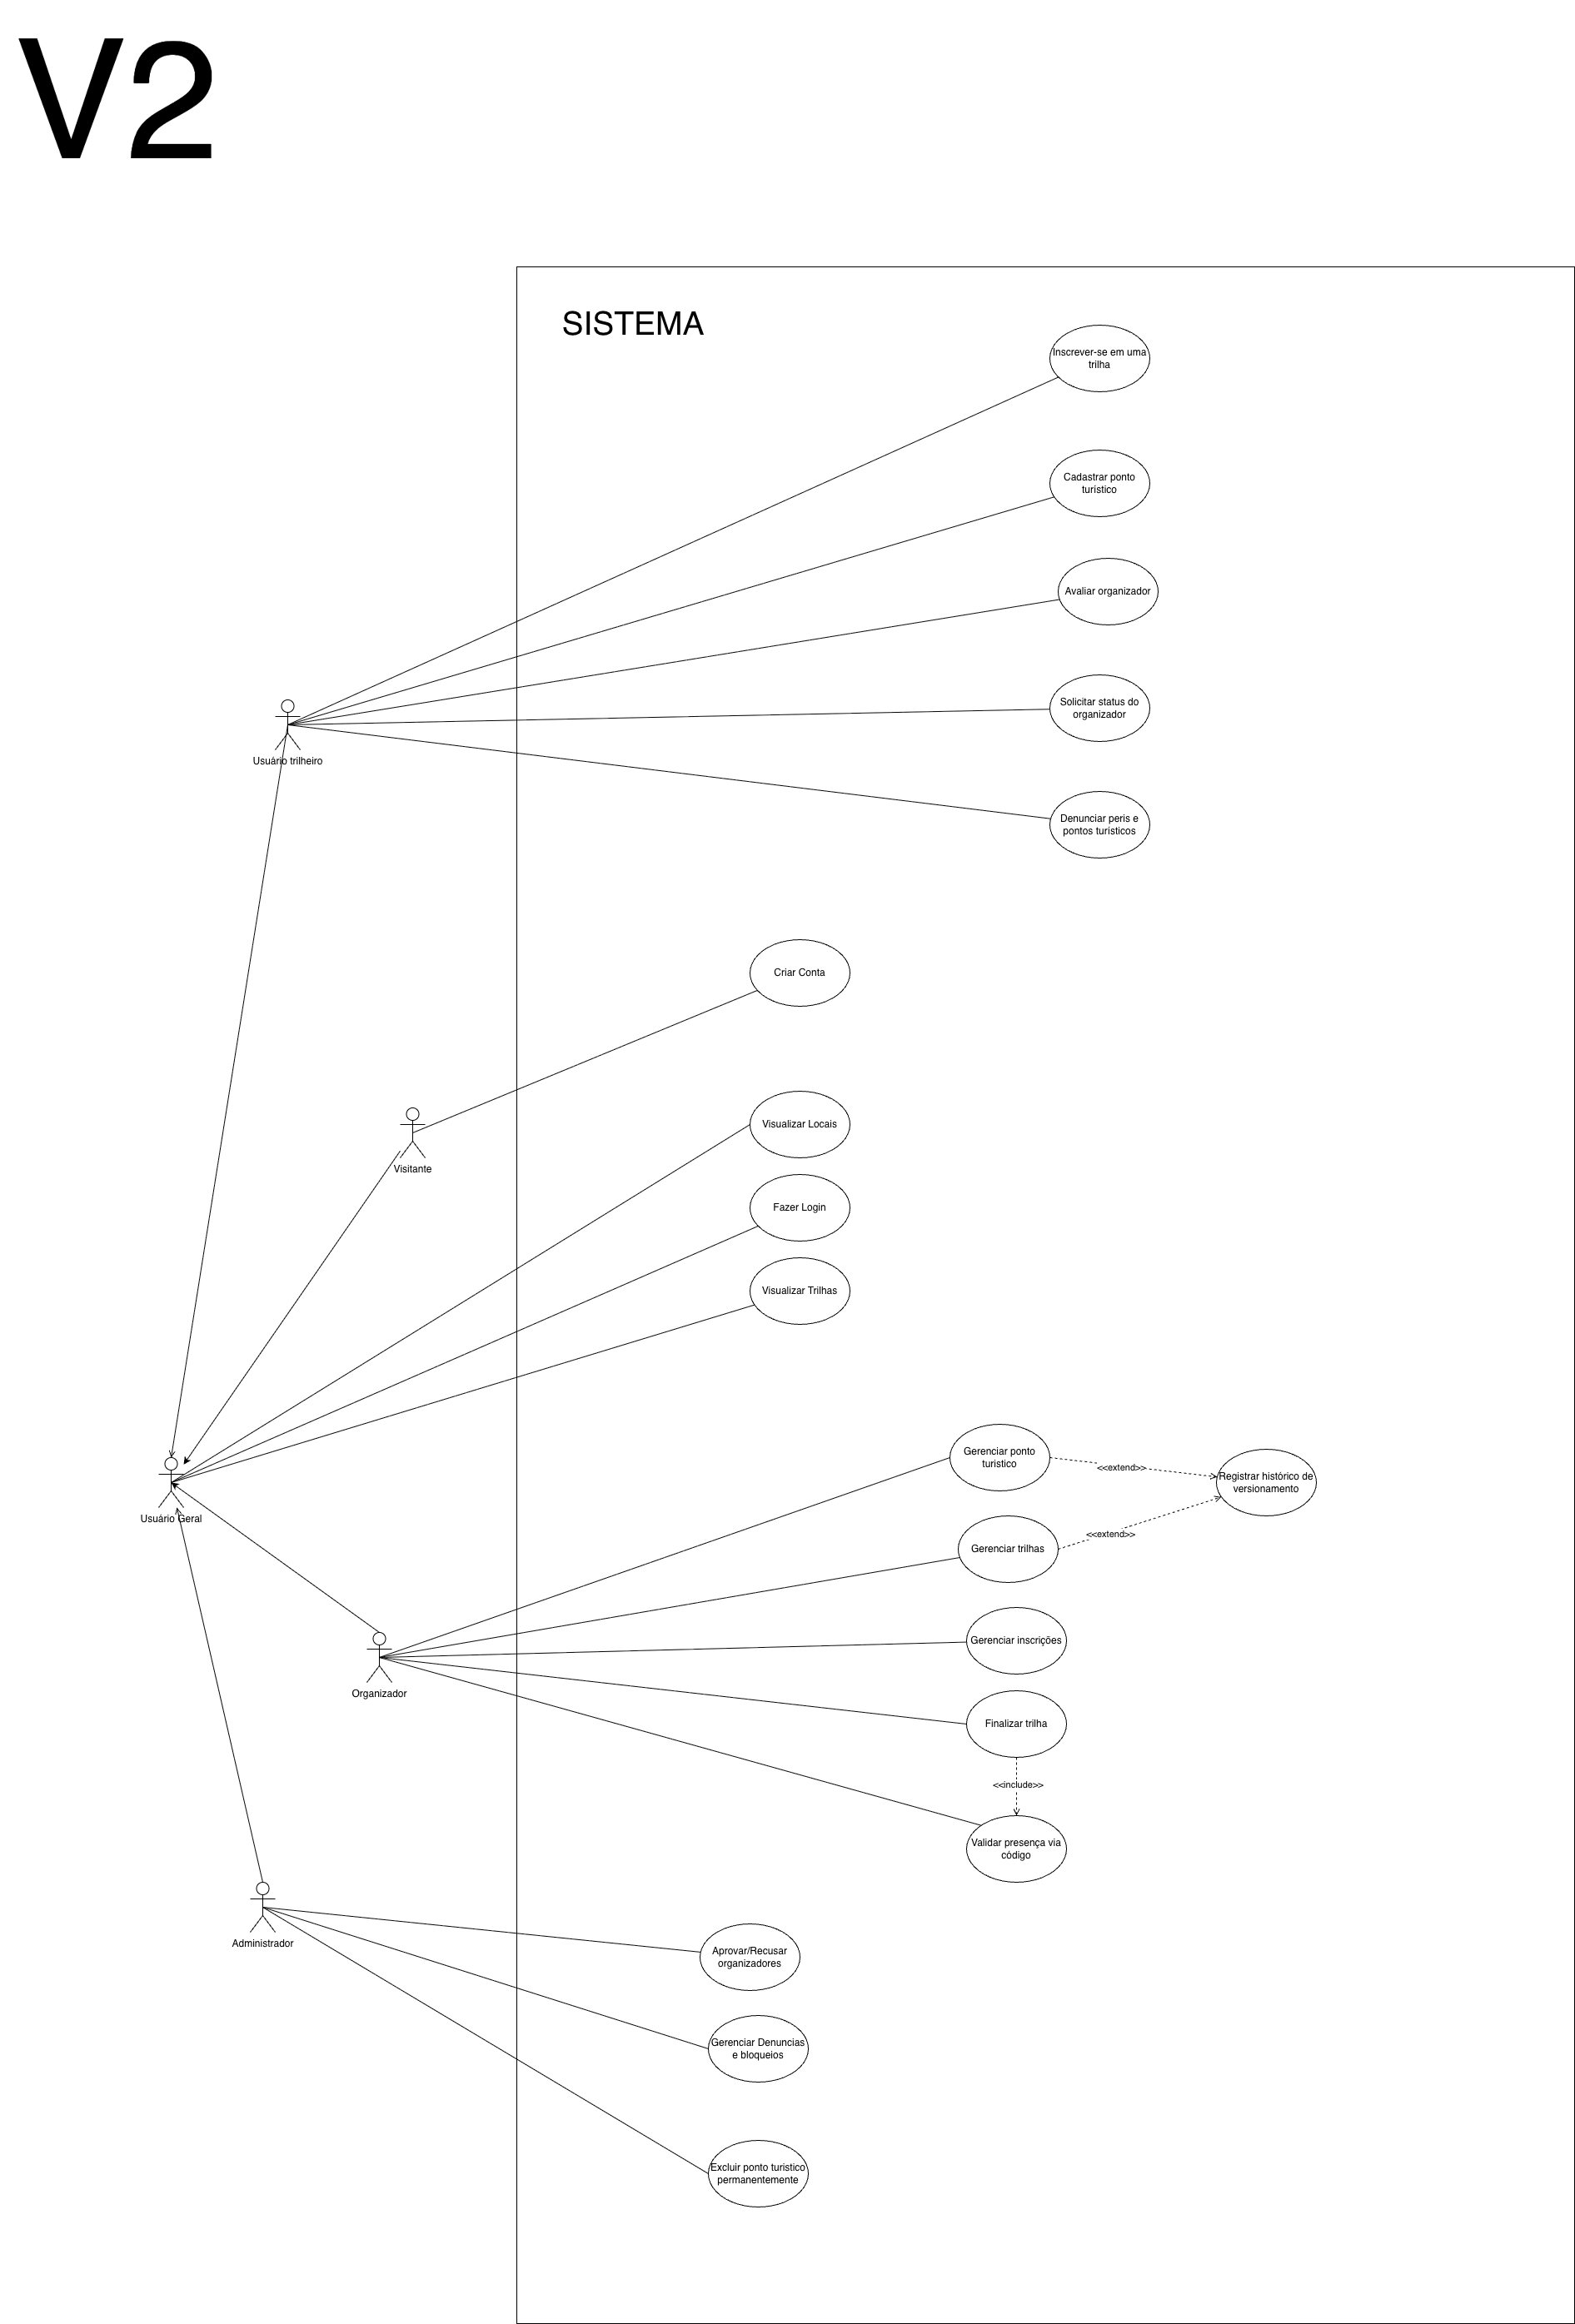
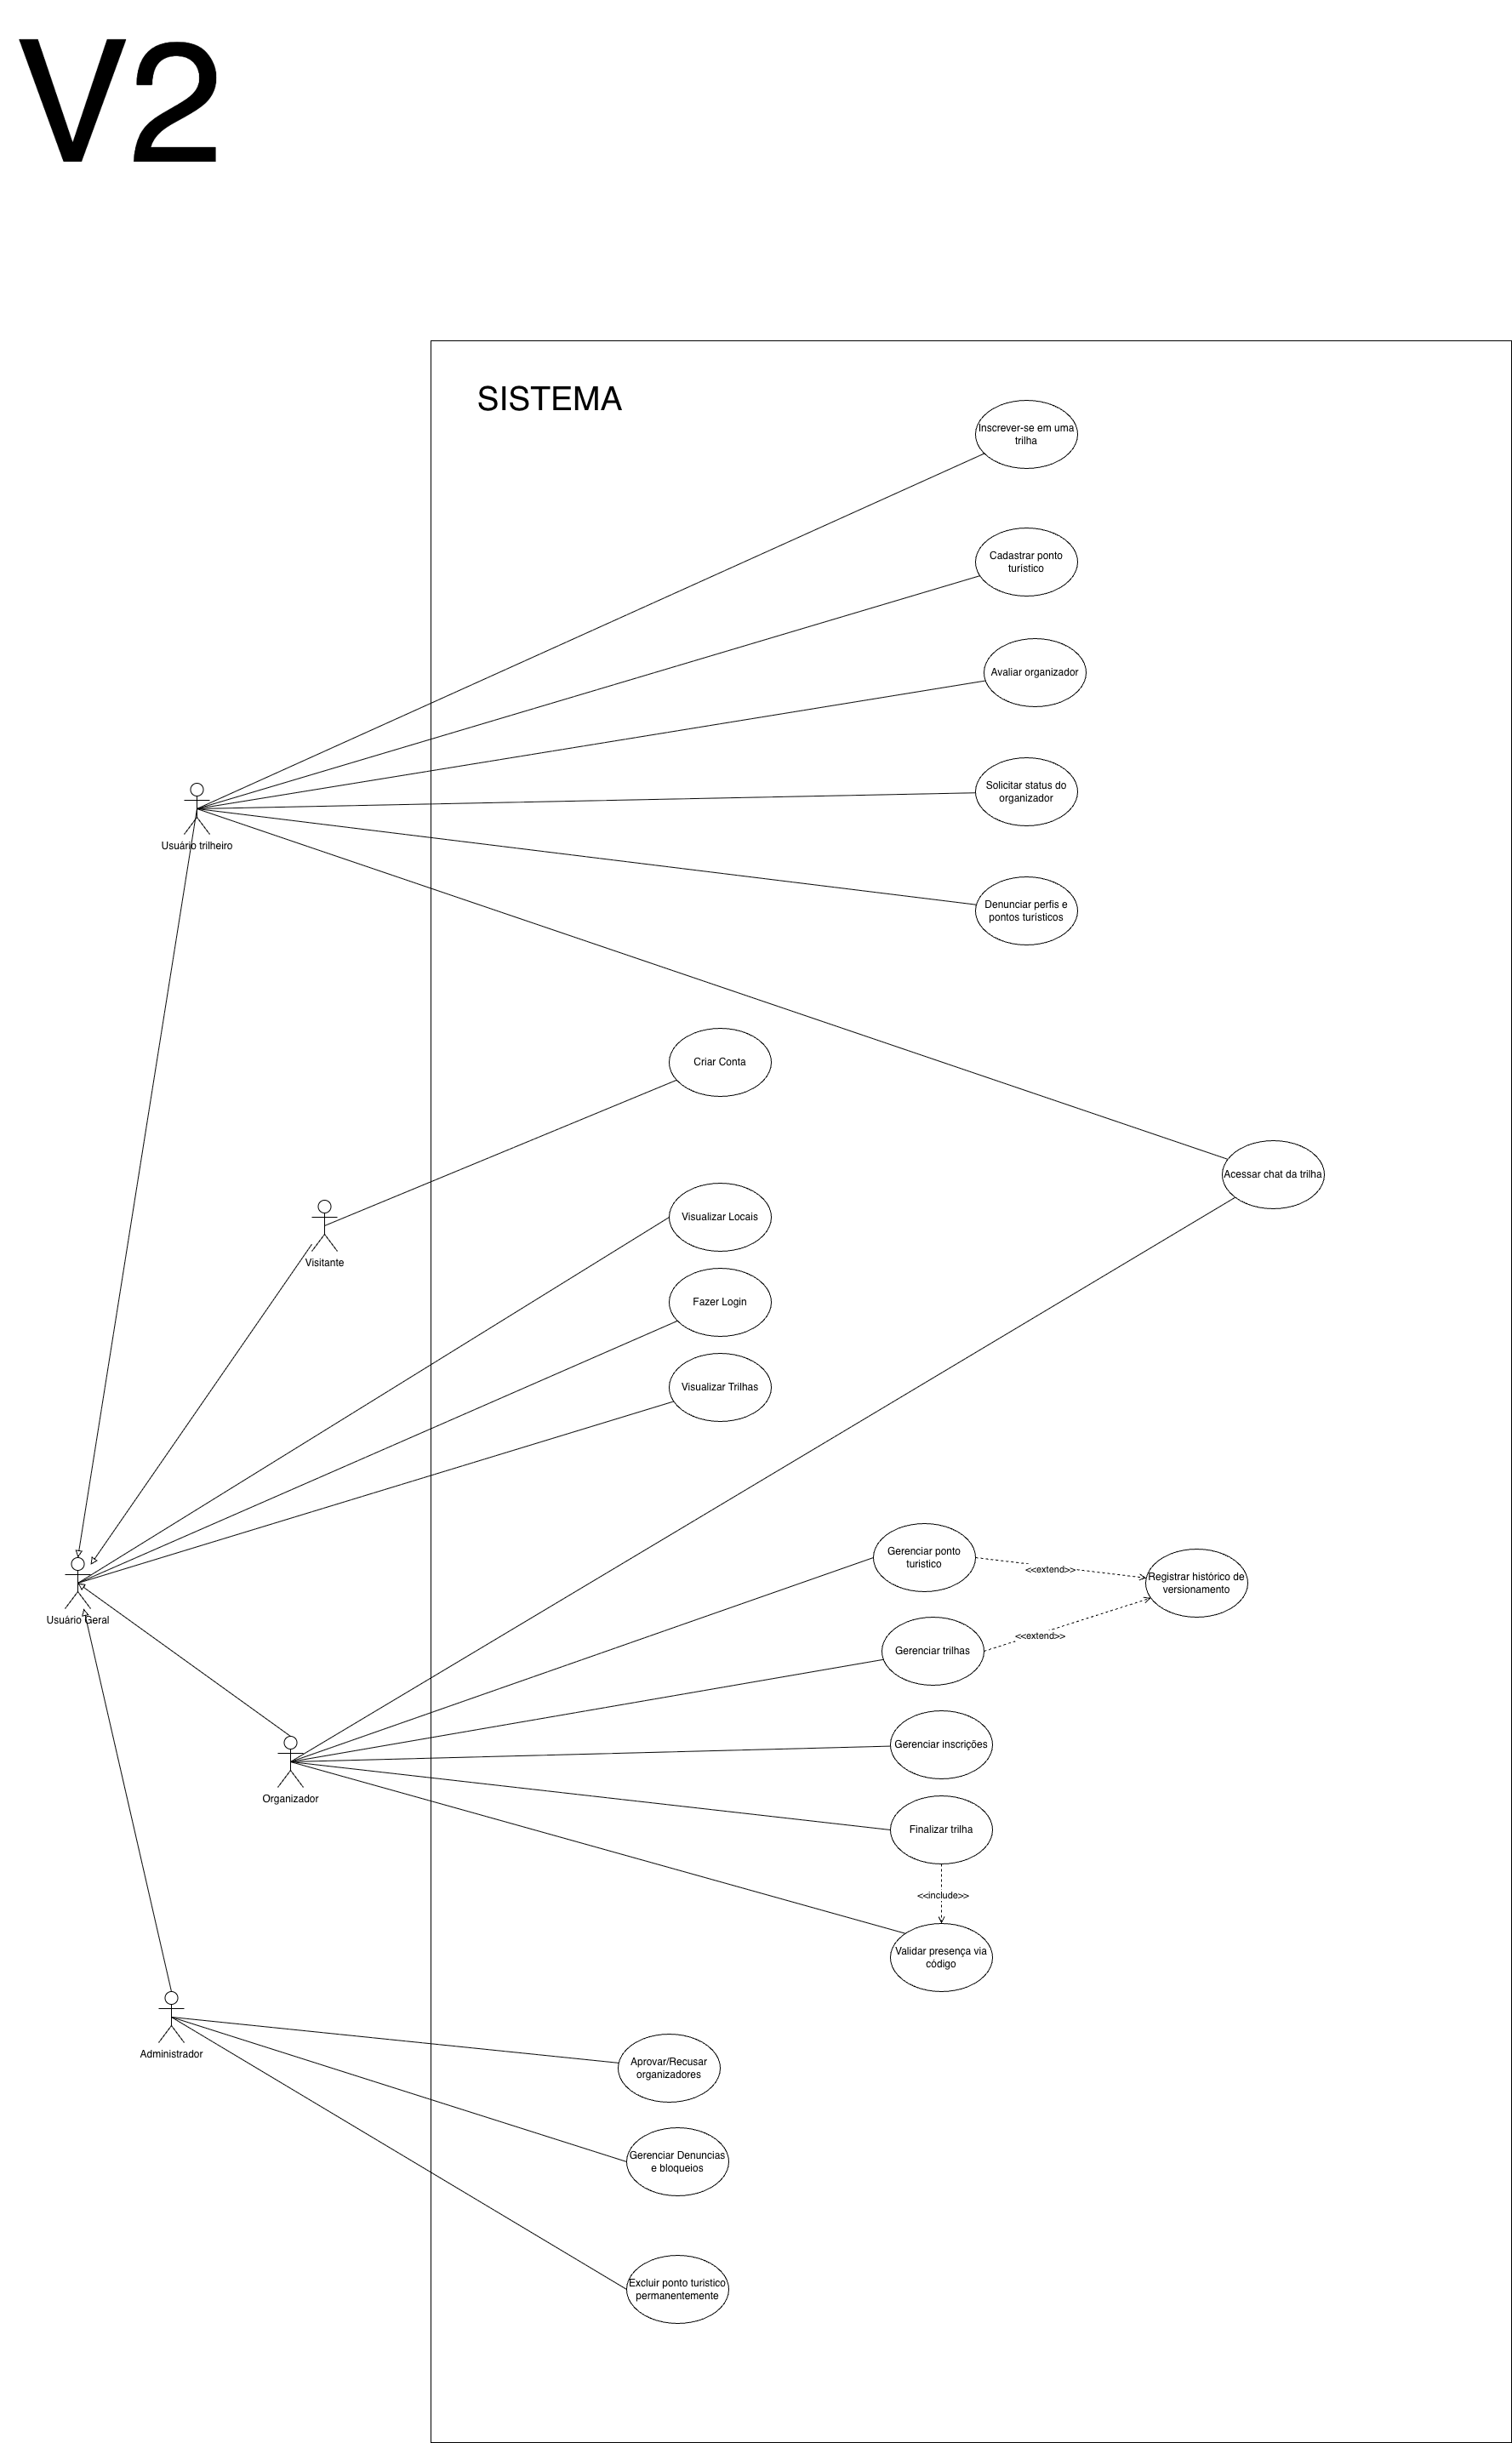
docs: adiciona matriz de rastreabilidade

diff --git a/docs/Modelagem/2.3.ModelagemOrganizacionalCasosDeUso.md b/docs/Modelagem/2.3.ModelagemOrganizacionalCasosDeUso.md
@@ -6,6 +6,67 @@ Optamos por desenvolver o **Diagrama de Casos de Uso** como o modelo principal p
 
 ![Diagrama de Casos de Uso - Versão Final](../assets/fase_2/images/Diagrama%20OrganizacionalV2.drawio.png)
 
+### Detalhamento de Papéis e Permissões (RBAC)
+
+Para garantir a segurança e a correta segregação de funções exigida pelas Regras de Negócio, o sistema adota o modelo de Controle de Acesso Baseado em Papéis (*Role-Based Access Control*). A hierarquia foi modelada utilizando o conceito de **Generalização (Herança)**, estruturada da seguinte forma:
+
+* **Visitante (Ator Base):** Representa o usuário não autenticado. Ele possui acesso apenas às funções públicas de leitura (visualizar feed, locais e trilhas) e à capacidade de criar uma conta/autenticar-se no sistema.
+* **Usuário Comum:** Herda as permissões do Visitante, mas atua em estado autenticado. Representa o uso padrão do aplicativo. Este perfil ganha o direito de interagir com o sistema (inscrever-se em trilhas, criar/editar pontos turísticos, denunciar e usar o chat).
+* **Organizador:** Herda as permissões do Usuário Comum, adquirindo privilégios de gestão sobre eventos. É o único papel capaz de criar trilhas, aprovar inscrições, gerar códigos de presença e finalizar os eventos para distribuição de *badges*.
+* **Administrador:** Ator com privilégios máximos de moderação. Herda as permissões base, mas foca na sanidade da plataforma (aprovação de novos organizadores, gestão de denúncias e exclusão permanente (lógica) de locais).
+
+
+### Rastreabilidade: Casos de Uso vs. Requisitos
+
+Abaixo detalhamos o escopo do diagrama, relacionando diretamente as ações modeladas com os Requisitos Funcionais (RF) e Regras de Negócio (RN) levantados pela equipe, sem a necessidade de uma especificação exaustiva de passos lógicos neste nível de abstração:
+
+**Interações Gerais e de Acesso**
+* **Criar Conta / Autenticar:** Permite o ingresso no sistema via credenciais padrão ou Google (**RF01**).
+* **Visualizar Feed e Detalhes:** Permite a listagem, filtragem e visualização de páginas individuais de locais e trilhas (**RF02, RF04**).
+
+**Interações do Usuário Comum**
+* **Gerenciar Ponto Turístico:** Permite criar e editar informações de locais (**RF03**). Possui um ponto de extensão (`<<extend>>`) obrigatório para **Registrar Histórico de Versionamento** sempre que uma edição ocorrer, garantindo a auditoria (**RN01**).
+* **Inscrever-se em Trilha:** Ação que dispara o interesse em participar de um evento (**RF05**).
+* **Acessar Chat de Trilha:** Funcionalidade de comunicação estritamente 1-para-1 entre o usuário inscrito e o organizador (**RF05, RN03**).
+* **Solicitar Status de Organizador:** Envio de formulário com documentação para upgrade de conta (**RF10**).
+* **Denunciar Locais/Perfis:** Ferramenta de moderação comunitária (**RF12**).
+
+**Gestão do Organizador**
+* **Gerenciar Trilhas:** Permite a criação e edição de eventos de autoria própria (**RF08**).
+* **Gerenciar Inscrições:** Permite aceitar ou recusar as solicitações enviadas por usuários comuns (**RF07**).
+* **Validar Presença via Código:** Inserção do código único gerado pelo sistema para confirmar a participação física do inscrito (**RF06, RF07**).
+* **Finalizar Trilha:** Inativa o evento concluído e engatilha o sistema de distribuição automática de *badges* (**RF09, RN05**).
+
+**Moderação do Administrador**
+* **Aprovar/Recusar Organizadores:** Avaliação dos formulários enviados pelos usuários comuns (**RF11**).
+* **Gerenciar Denúncias e Bloqueios:** Análise de infrações cometidas na plataforma (**RF11**).
+* **Excluir Local Permanentemente:** Ação restrita para remoção definitiva (ou *soft delete* protegido) de um ponto turístico do banco de dados (**RN02**).
+
+
+#### Matriz de Rastreabilidade: Casos de Uso vs. Requisitos
+
+| Caso de Uso | Ator(es) Principal(is) | Requisitos (RF) | Regras de Negócio (RN) |
+| :--- | :--- | :--- | :--- |
+| **Criar Conta / Autenticar** | Visitante | RF01 | - |
+| **Visualizar Feed e Filtrar Locais** | Visitante | RF02 | - |
+| **Visualizar Detalhes (Locais/Trilhas)** | Visitante | RF04 | - |
+| **Gerenciar Ponto Turístico** | Usuário Comum | RF03 | - |
+| **Registrar Histórico de Versionamento** | Usuário Comum | - | RN01 |
+| **Inscrever-se em Trilha** | Usuário Comum | RF05 | - |
+| **Acessar Chat de Trilha** | Usuário Comum, Organizador | RF05 | RN03 |
+| **Avaliar Organizador** | Usuário Comum | - | RN04 |
+| **Solicitar Status de Organizador** | Usuário Comum | RF10 | - |
+| **Denunciar Local ou Perfil** | Usuário Comum | RF12 | - |
+| **Gerenciar Trilhas** | Organizador | RF08 | RN06, RN07 |
+| **Gerenciar Inscrições** | Organizador | RF07 | - |
+| **Validar Presença via Código** | Organizador | RF06, RF07 | - |
+| **Finalizar Trilha** | Organizador | RF09 | RN05 |
+| **Aprovar/Recusar Organizadores** | Administrador | RF11 | - |
+| **Gerenciar Denúncias e Bloqueios** | Administrador | RF11 | - |
+| **Excluir Local Permanentemente** | Administrador | - | RN02 |
+
+*(Nota: Os atores indicados na tabela representam o nível de acesso mais baixo exigido. Graças à herança modelada no diagrama, atores superiores herdam automaticamente essas permissões).*
+
 
 ## Histórico de Versões
 
@@ -68,4 +129,4 @@ Durante o processo de modelagem, realizamos uma revisão crítica do nosso prime
 | :--- | :--- | :--- | :--- | :--- | :--- |
 | 1.0 | 01/04/2026 | Criação da primeira versão do Diagrama de Casos de Uso (V1) para mapeamento inicial de escopo. | [Miguel](https://github.com/zlimaz) | [Ana Luiza](https://github.com/ana-pfeilsticker) | **Revisão solicitada:** O diagrama mapeou corretamente o escopo, mas identificou-se a necessidade de adequação às normas da UML (ajuste na fronteira do sistema, substituição de caixas por *stick figures* e redução do excesso de `<<include>>` no login). |
 | 2.0 | 20/04/2026 | Refinamento do diagrama conforme normas UML 2.5, aplicação de herança e otimização de relacionamentos. | [Ana Luiza](https://github.com/ana-pfeilsticker) | Breno | **Revisão aprovada:** O diagrama foi refatorado com sucesso. A introdução do "Usuário Geral" (herança) limpou a poluição visual e o RBAC está claramente representado. Artefato validado para entrega. |
-
+| 3.0 | 22/04/2026 | Refinamento do diagrama conforme normas UML 2.5, adição de casos de uso relacionados ao chat e adição de matriz de rastreabilidade de requisitos. | [Ana Luiza](https://github.com/ana-pfeilsticker) | X | **Revisão:** PREENCHER |